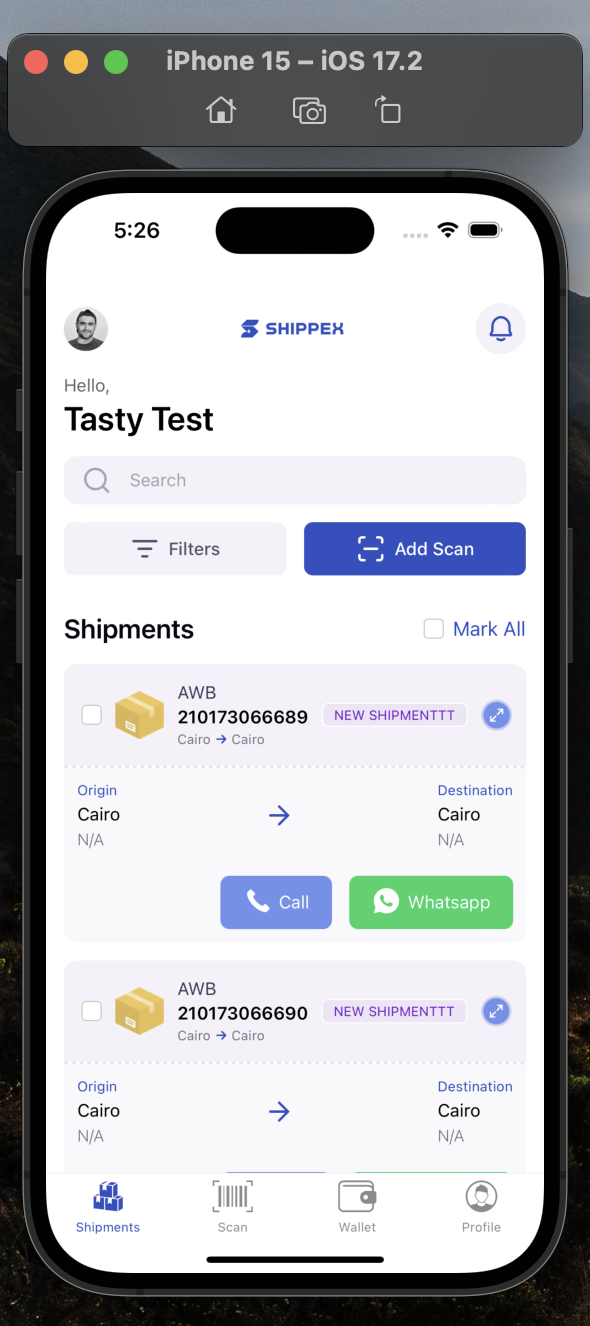
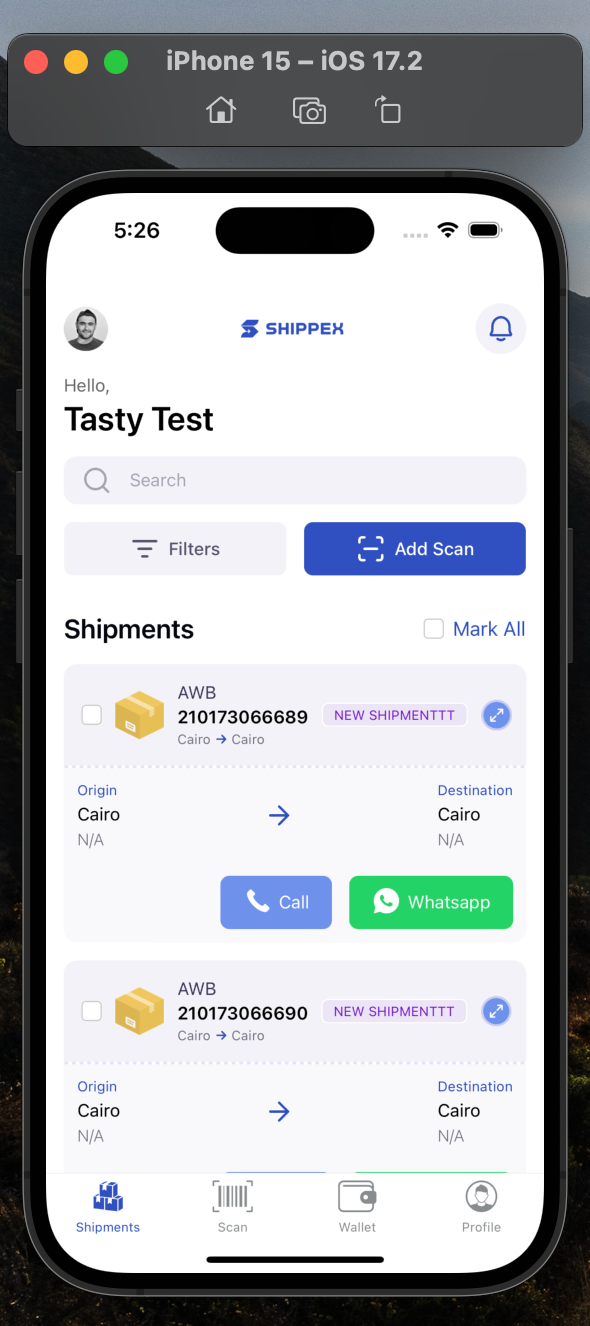
perf: optimized asset files

Changed region(s): [[0.5797, 0.6493, 0.8847, 0.7112], [0.0915, 0.0309, 0.1525, 0.0618], [0.1831, 0.0309, 0.2136, 0.0618]]

diff --git a/src/app/(tabs)/index.tsx b/src/app/(tabs)/index.tsx
@@ -31,6 +31,16 @@ const HomeScreen = () => {
   const [allChecked, setAllChecked] = useState(false);
   const [checkedState, setCheckedState] = useState<boolean[]>([]);
   const [data, setData] = useState<ShipmentDetails[]>([]);
+  const [loading, setLoading] = useState(false);
+  const [statusLoading, setStatusLoading] = useState(false);
+  const [filterOptions, setFilterOptions] = useState<Message[]>([]);
+  const [status, setStatus] = useState<string | null>(null);
+  const [search, setSearch] = useState<string | null>(null);
+
+  useEffect(() => {
+    if (user) setVisible(false);
+    else setVisible(true);
+  }, [user]);
 
   // Initialize the checked state array based on data length
   useEffect(() => {
@@ -59,16 +69,6 @@ const HomeScreen = () => {
   const handleSnapPress = useCallback(() => {
     sheetRef.current?.present();
   }, []);
-
-  useEffect(() => {
-    if (user) setVisible(false);
-    else setVisible(true);
-  }, [user]);
-  const [loading, setLoading] = useState(false);
-  const [statusLoading, setStatusLoading] = useState(false);
-  const [filterOptions, setFilterOptions] = useState<Message[]>([]);
-  const [status, setStatus] = useState<string | null>(null);
-  const [search, setSearch] = useState<string | null>(null);
 
   // Fetch Awb shipments
   const fetchAwbShipments = useCallback(
@@ -111,6 +111,7 @@ const HomeScreen = () => {
 
   useEffect(() => {
     const fetchAwbStatus = async (): Promise<void> => {
+      if (!user) return;
       const formData = new FormData();
       formData.append('doctype', 'AWB Status');
       formData.append('fields', JSON.stringify(['name', 'status', 'color']));
@@ -135,7 +136,7 @@ const HomeScreen = () => {
       }
     };
     fetchAwbStatus();
-  }, []);
+  }, [user]);
 
   const onRefresh = useCallback(async () => {
     setRefreshing(true);
@@ -146,7 +147,6 @@ const HomeScreen = () => {
   if (loading) {
     return <ActivityIndicator color="#2F50C1" className="flex-1" />;
   }
-
   return (
     <GestureHandlerRootView className="flex-1">
       <StatusBar style="dark" />

diff --git a/src/svgs/expand.tsx b/src/svgs/expand.tsx
@@ -3,7 +3,7 @@ import { Path, Rect, Svg } from 'react-native-svg';
 
 const Expand = () => {
   return (
-    <Svg width="24" height="25" viewBox="0 0 24 25" fill="none">
+    <Svg width="22" height="22" viewBox="0 0 24 25" fill="none">
       <Rect y="0.5" width="24" height="24" rx="12" fill="white" />
       <Path
         d="M13.4711 7.16663H17.3334M17.3334 7.16663V11.0287M17.3334 7.16663L12.8274 11.6724M10.5291 17.8333H6.66675M6.66675 17.8333V13.9712M6.66675 17.8333L11.1728 13.3275"

diff --git a/src/components/shipment/ShipmentItem.tsx b/src/components/shipment/ShipmentItem.tsx
@@ -85,7 +85,7 @@ const ShipmentItem = ({ item, data, checked, onCheckedChange }: Props) => {
             <Image
               source={require('../../../assets/images/expanded.png')}
               alt="Expanded icon"
-              className="h-7 w-7"
+              className="h-6 w-6"
               resizeMode="contain"
             />
           ) : (

diff --git a/src/app/(tabs)/profile.tsx b/src/app/(tabs)/profile.tsx
@@ -30,7 +30,7 @@ const Profile = () => {
   return (
     <SafeAreaView>
       <ScrollView>
-        <View className="px-4">
+        <View className="px-4 py-8">
           <View className="flex-row items-center justify-between">
             <Image
               source={require('../../../assets/images/avatar.png')}

diff --git a/.expo-shared/README.md b/.expo-shared/README.md
@@ -1,0 +1,11 @@
+> Why do I have a folder named ".expo-shared" in my project?
+
+The ".expo-shared" folder is created when running commands that produce state that is intended to be shared with all developers on the project. For example, "npx expo-optimize".
+
+> What does the "assets.json" file contain?
+
+The "assets.json" file describes the assets that have been optimized through "expo-optimize" and do not need to be processed again.
+
+> Should I commit the ".expo-shared" folder?
+
+Yes, you should share the ".expo-shared" folder with your collaborators.
